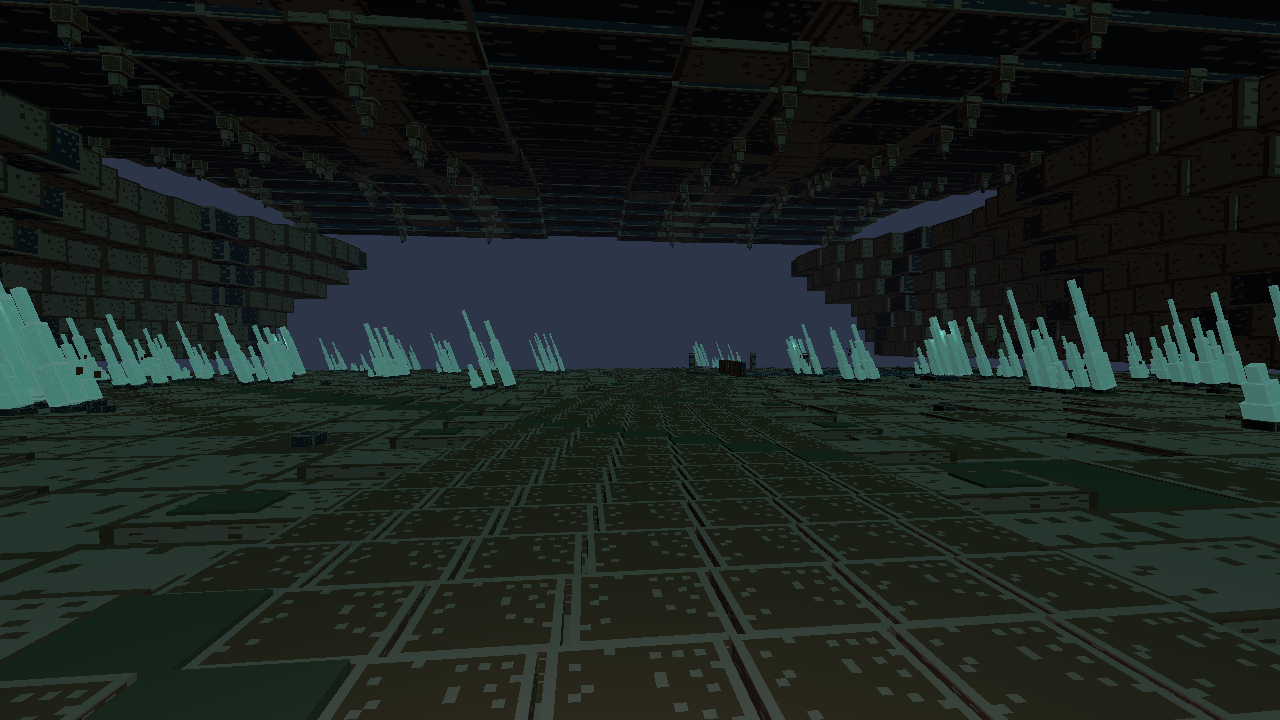
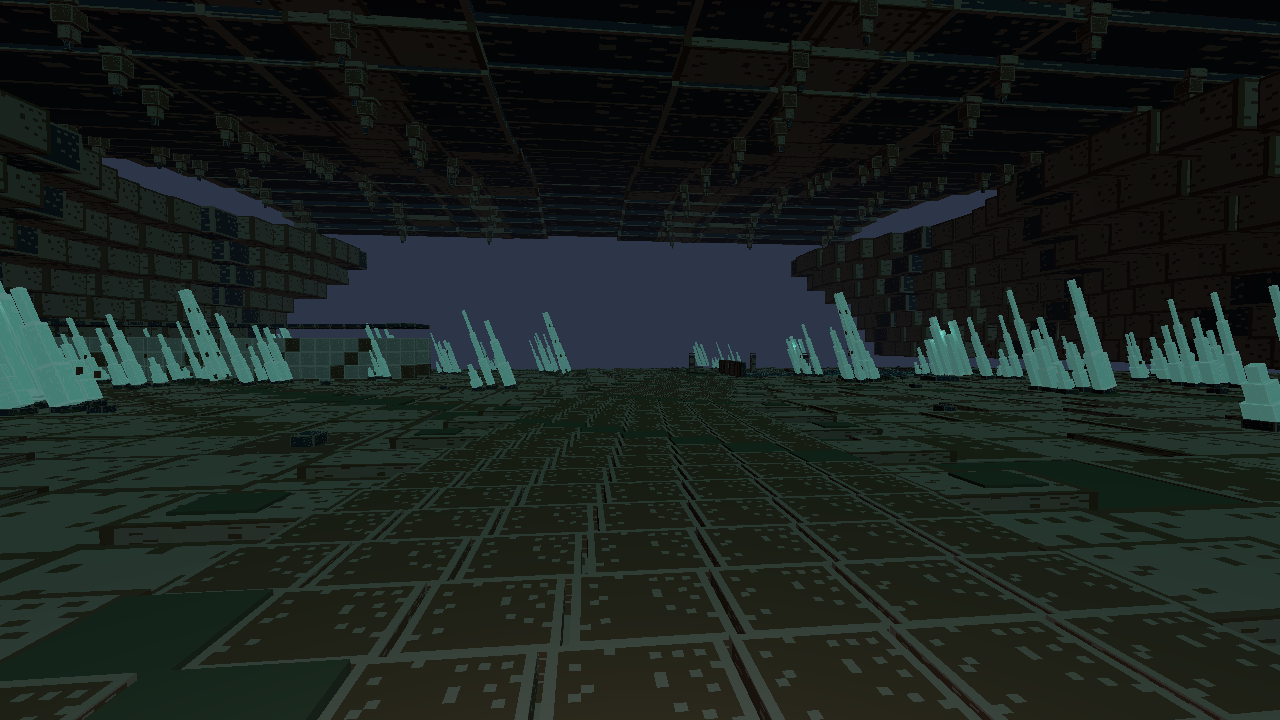
U-3: sculpt three ancient monoliths and silver moonstone spur

diff --git a/tools/voxel-tavern/town-blockout/underground-crystal-cavern.ts b/tools/voxel-tavern/town-blockout/underground-crystal-cavern.ts
@@ -17,7 +17,7 @@ import {
 export type CrystalCavernPoint = Readonly<{ east: number; north: number; height: number }>;
 export type CrystalCavernFrame = CrystalCavernPoint & Readonly<{ yaw: number; domainId: string }>;
 type Local = readonly [east: number, height: number, north: number];
-type Family = 'rock' | 'shadow' | 'slate' | 'timber' | 'rust' | 'moss' | 'crystal' | 'water';
+type Family = 'rock' | 'shadow' | 'slate' | 'timber' | 'rust' | 'moss' | 'crystal' | 'water' | 'moonstone';
 export type CrystalCavernBlock = Readonly<{
   name: string;
   family: Family;
@@ -367,6 +367,83 @@ function makeCavern() {
   }
 }
 makeCavern();
+function buildMonolithHallAndMoonstoneSpur() {
+  // U-3 R2: the visual centrepiece is exactly three ~8 m crystalline columns
+  // in a triangular arrangement. These are geological scenery, never new
+  // ore-vein IDs, crystal-mimic spawns or mining rewards. Keep the route clear.
+  const monoliths = [[-31,49],[26,46],[-2,67]] as const;
+  for (const [index,[east,north]] of monoliths.entries()) {
+    const base = crystalCavernTrailHeight(north);
+    for (let tier=0;tier<20;tier++) {
+      const rise=(tier+.5)*.40;
+      const shrink=1-.023*tier;
+      const lean=-Math.sin(CRYSTAL_CAVERN_CANT_RAD)*rise;
+      add('crystal','u3/hall/monolith-'+index+'/spine-'+tier,
+        east+lean,base+Math.cos(CRYSTAL_CAVERN_CANT_RAD)*rise+.24,north,
+        1.12*shrink,.41,1.03*shrink,false,CRYSTAL_CAVERN_CANT_RAD);
+      for (let rib=0;rib<4;rib++) {
+        const angle=rib*Math.PI/2;
+        add(tier%5===0?'slate':'crystal',
+          'u3/hall/monolith-'+index+'/facet-'+tier+'-'+rib,
+          east+lean+Math.cos(angle)*.57*shrink,
+          base+Math.cos(CRYSTAL_CAVERN_CANT_RAD)*rise+.24,
+          north+Math.sin(angle)*.51*shrink,
+          .20*shrink,.40,.21*shrink,false,CRYSTAL_CAVERN_CANT_RAD);
+      }
+    }
+    for(let root=0;root<8;root++) for(let level=0;level<5;level++) {
+      const a=root*Math.PI/4;
+      const r=1.18+level*.23;
+      add(level===4?'moss':level%3===0?'slate':'rock',
+        'u3/hall/monolith-'+index+'/root-'+root+'-'+level,
+        east+Math.cos(a)*r,base-.27+level*.075,
+        north+Math.sin(a)*r,.50,.24,.55);
+    }
+  }
+
+  // U-3 R2 visual-only moonstone branch: a furnished silver-grey side niche
+  // with a natural flat crystal face. This is NOT a reflective mirror shader,
+  // a host-certified playable corridor or a mining/reward registration.
+  for(let bay=0;bay<25;bay++){
+    const east=-17-bay*1.4;
+    const north=56+Math.sin(bay/5)*1.3;
+    const base=crystalCavernTrailHeight(north);
+    for(let lane=-2;lane<=2;lane++) {
+      add((bay+lane)%4===0?'moonstone':'slate',
+        'u3/moonstone-spur/floor-'+bay+'-'+lane,
+        east,base-.15,north+lane*.75,1.40,.24,.73);
+    }
+    for(const side of [-1,1]) for(let tier=0;tier<3;tier++) {
+      add((bay+tier)%5===0?'slate':'moonstone',
+        'u3/moonstone-spur/bank-'+bay+'-'+side+'-'+tier,
+        east,base+.68+tier*1.35,north+side*2.35,
+        1.37,1.33,.51);
+    }
+    add('shadow','u3/moonstone-spur/cap-'+bay,
+      east,base+5.28,north,1.40,.36,5.1);
+  }
+  // The wall can be photographed, but actual avatar reflections require a
+  // separately reviewed host shader/scene capture. Do not call this one a
+  // working mirror in release notes.
+  const mirrorEast=-53.4, mirrorNorth=56;
+  const mirrorBase=crystalCavernTrailHeight(mirrorNorth);
+  for(let row=0;row<9;row++) for(let col=0;col<10;col++) {
+    add((row+col)%7===0?'slate':'moonstone',
+      'u3/moonstone-spur/natural-mirror-'+row+'-'+col,
+      mirrorEast,mirrorBase+.42+row*.55,mirrorNorth+(col-4.5)*.54,
+      .32,.54,.53);
+  }
+  for(let jamb=0;jamb<2;jamb++) for(let segment=0;segment<9;segment++) {
+    add('rock','u3/moonstone-spur/mirror-jamb-'+jamb+'-'+segment,
+      mirrorEast+.05,mirrorBase+.42+segment*.57,
+      mirrorNorth+(jamb?3.0:-3.0),.58,.55,.62);
+  }
+  for(let segment=0;segment<10;segment++)
+    add('shadow','u3/moonstone-spur/mirror-crown-'+segment,
+      mirrorEast+.04,mirrorBase+5.56,
+      mirrorNorth+(segment-4.5)*.59,.56,.23,.55);
+}
+buildMonolithHallAndMoonstoneSpur();
 export const crystalCavernArchitecture = Object.freeze({
   pieces: Object.freeze(objects),
   numbers: Object.freeze({
@@ -382,10 +459,12 @@ export const crystalCavernArchitecture = Object.freeze({
 const colors: Readonly<Record<Family, number>> = {
   rock: 0x8a8378, shadow: 0x2c3648, slate: 0x5d4630, timber: 0xa98a56,
   rust: 0x8a4a34, moss: 0x44503c, crystal: 0x7fd4c8, water: 0x2c3648,
+  moonstone: 0xa7b4b6,
 };
 const accent: Readonly<Record<Family, number>> = {
   ...colors, rock: 0x5d4630, shadow: 0x8a8378, slate: 0x8a8378,
   timber: 0x5d4630, rust: 0x5d4630, crystal: 0xe8ecf0, water: 0x7fd4c8,
+  moonstone: 0xd1d9d7,
 };
 function texture(family: Family) {
   const bytes = new Uint8Array(16 * 16 * 4);

diff --git a/tests/town-blockout-underground-crystal-cavern.test.ts b/tests/town-blockout-underground-crystal-cavern.test.ts
@@ -66,7 +66,7 @@ test('U-3 R1 models the entire 180×120m layer, 97m path, vault, clusters, river
   assert.ok(pieces.filter(p => p.name.startsWith('u3/crystals/')).length > 400);
   const materials = new Set(pieces.map(p => p.family));
   assert.deepEqual([...materials].sort(),
-    ['crystal','moss','rock','rust','shadow','slate','water'].sort());
+    ['crystal','moonstone','moss','rock','rust','shadow','slate','water'].sort());
 });
 
 test('U-3 R2 all crystalline growth is tilted exactly +20° and grouped, 6 cold fixtures have physical crystals', () => {
@@ -95,9 +95,37 @@ test('U-3 R2/R5 complete faceted ceiling, side strata and both river banks witho
   assert.equal(family('u3/river/shore-cap-').length,48);
   assert.ok(teeth.every(p=>!p.solid), 'overhead geological ornament is not a fake route obstruction');
   assert.ok(family('u3/river/shore-').every(p=>!p.solid));
-  assert.equal(crystalCavernArchitecture.numbers.cuboids,8208);
+  assert.equal(crystalCavernArchitecture.numbers.cuboids,9046);
   assert.ok(teeth.filter(p=>p.name.includes('-tier-')).every(p=>p.center[1]-p.size[1]/2>=20.4),
     'ceiling teeth must not invade the 20m traversable envelope');
+});
+
+test('U-3 R2 hall has exactly three eight-metre faceted monoliths and a visual moonstone spur', () => {
+  const pieces=crystalCavernArchitecture.pieces;
+  const named=(prefix:string)=>pieces.filter(p=>p.name.startsWith(prefix));
+  assert.equal(named('u3/hall/monolith-').length,420);
+  assert.equal(named('u3/hall/monolith-').filter(p=>p.name.includes('/spine-')).length,60);
+  assert.equal(named('u3/hall/monolith-').filter(p=>p.name.includes('/facet-')).length,240);
+  assert.equal(named('u3/hall/monolith-').filter(p=>p.name.includes('/root-')).length,120);
+  for(let index=0;index<3;index++){
+    const spine=named('u3/hall/monolith-'+index+'/spine-');
+    assert.equal(spine.length,20);
+    assert.ok(Math.max(...spine.map(p=>p.center[1]))-Math.min(...spine.map(p=>p.center[1]))>6.9);
+    assert.ok(spine.every(p=>p.rotationZ===CRYSTAL_CAVERN_CANT_RAD));
+  }
+  assert.equal(named('u3/moonstone-spur/floor-').length,125);
+  assert.equal(named('u3/moonstone-spur/bank-').length,150);
+  assert.equal(named('u3/moonstone-spur/cap-').length,25);
+  assert.equal(named('u3/moonstone-spur/natural-mirror-').length,90);
+  assert.equal(named('u3/moonstone-spur/mirror-jamb-').length,18);
+  assert.equal(named('u3/moonstone-spur/mirror-crown-').length,10);
+  assert.equal(crystalCavernArchitecture.numbers.cuboids,9046);
+  assert.equal(named('u3/moonstone-spur/').filter(p=>p.solid).length,0,
+    'the visual spur cannot claim host-certified colliders or playable passage');
+  assert.ok(named('u3/moonstone-spur/').every(p=>p.family!=='water'),
+    'do not disguise the photo wall as water/real reflections');
+  assert.equal(crystalCavernArchitecture.numbers.clusters,62);
+  assert.equal(crystalCavernArchitecture.numbers.riverCells,289);
 });
 
 test('U-3 tapered crystals have real continuous segment tips under the exact rotated +20° spine', () => {
@@ -180,7 +208,7 @@ test('U-3 R4/R5 eight-or-fewer instanced nearest pixel palettes and six attached
   if (scene.kind !== 'ready') assert.fail();
   assert.equal(f.parent.children.length, 1);
   assert.equal(scene.group.position.y, -140);
-  assert.equal(scene.meshes.length, 7);
+  assert.equal(scene.meshes.length, 8);
   assert.equal(scene.lights.length, 6);
   assert.equal(scene.lights.filter(l=>l.visible).length, 3);
   assert.equal(scene.colliders.length, crystalCavernArchitecture.numbers.structuralColliders);

diff --git a/tools/fixtures/underground-crystal-cavern-review.ts b/tools/fixtures/underground-crystal-cavern-review.ts
@@ -40,6 +40,14 @@ const views = {
     eye: [24.5, crystalCavernTrailHeight(76) + 1.67, -76] as const,
     target: [49, crystalCavernTrailHeight(87) + 1.6, -87] as const,
   },
+  monolith: {
+    eye: [-17, crystalCavernTrailHeight(43) + 1.67, -42] as const,
+    target: [-31, crystalCavernTrailHeight(49) + 4.2, -49] as const,
+  },
+  moonstone: {
+    eye: [-38, crystalCavernTrailHeight(56) + 1.67, -56] as const,
+    target: [-53.4, crystalCavernTrailHeight(56) + 2.6, -56] as const,
+  },
 } as const;
 type ViewName = keyof typeof views;
 let current: ViewName = 'entrance';
@@ -68,8 +76,8 @@ function draw() {
 }
 draw();
 const keyboard = (event: KeyboardEvent) => {
-  const keys: readonly ViewName[] = ['entrance', 'grove', 'overlook', 'quay'];
-  const idx = ['1','2','3','4'].indexOf(event.key);
+  const keys: readonly ViewName[] = ['entrance', 'grove', 'overlook', 'quay', 'monolith', 'moonstone'];
+  const idx = ['1','2','3','4','5','6'].indexOf(event.key);
   if (idx >= 0) setView(keys[idx]);
 };
 window.addEventListener('keydown', keyboard);

diff --git a/docs/交流区/队列-窗C.md b/docs/交流区/队列-窗C.md
@@ -12,13 +12,13 @@
 
 **2026-11-21 晚间增量续报（仍不关闭任务）：** U-10 实键 W 连续扫掠、开放屋进门/封闭屋挡门的真实 Chrome 独立预览验收已通过，见《窗C-U10-键盘实走复验-2026-11-21》；U-11 R5 新补五组实体石龛宫灯 720 块，独立模型累计 10,581、未授权封库默认 7,566，单测 4/4、六机位 D 壳快照浏览器审图通过，根 build 通过，见《窗C-U11-R5石龛宫灯续建-2026-11-21》。U-11 R3 又对 D 固定壳体 14 点/13 段路线做 .27m 胶囊连续 0.11m 采样，2/2 PASS，见《窗C-U11-R3固定壳路线核验-2026-11-21》。两件都尚未正式接入默认地下宿主，多人实走/美术双图/完整四齐缺口不变，**保持在建**。全部产物在指定 D 盘工作树并按分支分件推送。
 
-**U-3 2026-11-21 增补：** 水晶洞穹顶悬岩/侧壁岩层/34m 河岸新增 1,206 件，模型 7,002→8,208；专项 8/8、四机位 Chrome 渲染无错误、TypeScript 绿。仍未挂载 −140m 官方域，保持在建，见 [R2/R5 本轮回执](GPT/窗C-U3水晶洞穹顶与河岸实体回补-2026-11-21.md)。此前 U3 集成审合因 D 主峰工坊 12 处 TS 错阻断，后续必须在最新主干复检，不因旧审核树红灯直接认定最新主干。
+**U-3 2026-11-21 增补：** 水晶洞穹顶悬岩/侧壁岩层/34m 河岸新增 1,206 件，模型 7,002→8,208；续建 3 根主厅巨晶柱和银灰月光石侧洞又新增 838 件，总量 **9,046 件**，8 个实例色板。最新专项 **9/9**、Chrome 六机位 6/6 无页面错误、根 check/build 绿。仍未挂载 −140m 官方域，保持在建，见 [地质回补](GPT/窗C-U3水晶洞穹顶与河岸实体回补-2026-11-21.md)和 [巨晶/侧洞回执](GPT/窗C-U3晶洞三晶柱与银灰月光石脉-2026-11-21.md)。此前 U3 集成审合因 D 主峰工坊 12 处 TS 错阻断，后续必须在最新主干复检，不因旧审核树红灯直接认定最新主干。
 
 | 编号 | 任务与上位令 | 状态 |
 | --- | --- | --- |
 | [U-1](任务/U-1.md) | B-01 正式井位与入梦 | 在建。三段权威、ZA-31 绞盘句柄 `5e2b7d0e` 和双向吊笼交接 `df7b3117`、演出 `66ec347d`、正式黑帧控制器 `985e7c05` 与实际井口受理桥 `07e512e0` 已入干（17/17、15/15、12/12，受理桥同权威组 22/22）；正式长按 E、井线与矿域受理待接 |
 | [U-2](任务/U-2.md) | 矿一营地与旧镐 | 在建。旧镐权威 `ade95410`、营地遗迹与布局 `f7188937`、营地互动与献灯 `e87a3766` 已入干（20/20），新增已认证矿洞域下的可选真交互组装 `4f5dc74d`（6/6）、待默认入口实接与 G-11 库存受理 |
-| [U-3](任务/U-3.md) | 水晶洞 180×120m 独立环境主体（62 晶簇、暗河古石码头、同偏角晶体、入口/出口真实脚点） | **已接领·窗 C，仍在建**。三轮大批建模 7,002 块，四视角 Chrome 审图返工、U3 7/7、地下 319/319；`lane-c` `e9e14ab7`/`8d864c6e`/`7f92b38c`/`3a59a308` 已推。最新 integration `064f0104` 独立复验自身窗 D 主峰工坊测试 12 条 TS 红，导致 C 审合不得过，详[跨窗提单](提单/窗C致窗D-主峰工坊测试类型回归阻断U3并线-2026-11-21.md)。**正式 −140m 层域、真实 E、默认玩家未验，禁止报完工**。 |
+| [U-3](任务/U-3.md) | 水晶洞 180×120m 独立环境主体（62 晶簇、暗河古石码头、同偏角晶体、入口/出口真实脚点） | **已接领·窗 C，仍在建**。多轮实物增补至 9,046 块，六机位 Chrome 审图返工、U3 9/9（此前旧基线地下 319/319）；`lane-c` `e9e14ab7`/`8d864c6e`/`7f92b38c`/`3a59a308` 已推。最新 integration `064f0104` 独立复验自身窗 D 主峰工坊测试 12 条 TS 红，导致 C 审合不得过，详[跨窗提单](提单/窗C致窗D-主峰工坊测试类型回归阻断U3并线-2026-11-21.md)。**正式 −140m 层域、真实 E、默认玩家未验，禁止报完工**。 |
 | [U-10](任务/U-10.md) | 勇士城分支线石屋排房、无字市场拱廊、90m 可走城墙（YS4/YS5） | **在建，七轮大批建模与风格返工已自有分支先推、总装主干审合。** R1/R2 原 6,107 件批量主体 `lane-c` `4f339438`，R3–R7 实体连通、16px 像素、4 机位 Chrome 首轮 `5ad480d5`，审图发现空白后补 740 块屋檐/拱券/石铺 `e2a1cefe`，现总新增 **6,847 建筑块**、U10 同帧 **8,921 块**、8–9 draw calls、约 107k triangles。D 盘隔离审合全地下 **303/303 PASS**、根 check/build 绿，集成最终 **`057d2f94`**。本机唯一根 `D:\computer learning\game_exe\kuanian`、窗 C 工作树 `.worktrees\window-c`。**未挂载真实 −165m 地域/180m 主街/玩家实走，四齐未过，仍在建**；[七轮大批审图回执](GPT/窗C-U10七轮建模大批交付-2026-11-21.md)、[原四轮存档](GPT/窗C-U10四轮石屋拱廊城墙回执-2026-11-21.md) |
 | [U-11 装饰补模](任务/U-11-窗C地宫装饰补模.md) | 窗 D 地宫壳体的非侵入式中式砖石/柱廊/王座/宝库陈设补模（R1–R2 实体先行） | **在建 · 窗 C**。本轮 D 盘新模型 9,861 块、8 组实例材质、专项 3/3、check/build PASS；R3 缺整宫实走、R4 独立六机位 Chrome 已过但仍缺参考图库对版与合体审图、R5 待精修、R6 缺宿主授权、R7 缺四齐合入，宝库仍封闭。见 [分件任务](任务/U-11-窗C地宫装饰补模.md) 和 [跨窗提单](提单/窗C致窗D-U11地宫补件对接-2026-11-21.md)。 |
 | [U-5](任务/U-5.md) | 地宫守库傀儡与地下四锚 | 在建。三阶段守库权威与生肖安全锚 `a9eb1ff6` 已入干（10/10），正式地宫、战斗宿主和绝对锚待接 |

diff --git a/docs/交流区/GPT/窗C-U3晶洞三晶柱与银灰月光石脉-2026-11-21.md b/docs/交流区/GPT/窗C-U3晶洞三晶柱与银灰月光石脉-2026-11-21.md
@@ -1,0 +1,19 @@
+# 窗 C · U-3 水晶洞 R2 主厅三晶柱与月光石侧洞补建（2026-11-21）
+
+**状态：在建。独立预制模型已通过新增建模/六机位 WebGL 验收；正式 −140m 地下域、支线碰撞与多人交互尚未挂载。**
+
+## 真实模型体量和设计边界
+
+- 唯一工程根 `D:\computer learning\game_exe\kuanian`，本次实际写入 `.worktrees\window-c` 的 `lane-c`；未改根工作树或其他窗 D/A/B 的文件。
+- 依照 Muse 《任务书-水晶洞细化》§1 的大厅三根约 8m 巨晶柱和月光石脉银灰色支线意象，在既有 8,208 块地貌上新增 **838 块实景构件，总计 9,046 块**。
+- **大厅标志晶柱 420 件**：三个不同地脚、各有 20 层微倾晶体中心段 + 80 块刻面 + 40 块分环地质基座，共 140×3；品字近景约 8m 高，仍使用同向 20° 晶体倾角。三个选点避让原 97m 主路与原有观景脚点；**不计入官方 62 处野生晶簇、不注册新矿点、拾取物、敌人或碰撞障碍**。
+- **月光石洞 418 件**：25×(5 格层地 + 6 格银灰侧壁 + 1 块顶棚) = 300，洞末平整石晶影壁 90 件 + 侧框 18 + 檐冠 10，新增第八组 `moonstone` 哑光银灰 16px 最近邻色板。晶壁是**自然平整视觉面，不是能够真实倒映玩家的反射镜**；该侧洞仍是美术预制，不冒充已实现挖矿支线或正式可进入的权威碰撞区域。
+- 保留 62 处原晶簇、289 格暗河、原 U-3 晶怪/晶蝠与 U-8/U-15 权限、六盏宿主预算冷灯及 16px 禁 mipmap；未新增 PointLight。
+
+## 可重跑验收
+- `node --import tsx --test tests/town-blockout-underground-crystal-cavern.test.ts` **9/9 PASS**：精确件数、三根晶柱高度与同向倾角、支线四面实体、非权威边界、原主路 27cm 胶囊通行和既有晶体分段连续性。
+- `node tools/run.mjs check` 与 `node tools/run.mjs build` 通过。已知 Vite 大 chunk 警告存在，不影响本次构建退出码；不等同于手机 FPS 通过。
+- `node tools/verify-underground-crystal-cavern.mjs` 独立 Chrome **6/6 机位通过**（入口、晶簇林、观景台、码头、巨晶柱、银灰侧洞）：1280×720、7–8 draws、105,084–108,552 triangles、4 盏可见冷灯、零浏览器页面异常；审图证据在 `docs/交流区/GPT/窗C-U3晶洞建模审图-2026-11-21/` 的 `1-entrance.png` 至 `6-moonstone.png` 与 `review-stats.json`。
+- **七轮 / 四齐**：R2/R4/R5 独立补模与网页审图增量完成，R3 仅本地主路净空可验证；正式月光石支线自上层接入、三晶柱宿主光影、真正的模糊队伍反射、R6 交互和 R7 真玩家/手机/多人审合仍未过。形/饰/互/文均不能标全部通过。不得宣称默认镇入口已能进入本场景或已经部署。
+
+**本轮已读 Muse 新文件：** 检查集成 `3b3c7b0b..61f92e9b` 的 Muse/任务/提单差分无新增，重读《任务书-水晶洞细化》与《地下层补充-陨石坑入口与洞内风格》；其他历史未归档待办仍需按队列逐项处理。

diff --git a/docs/交流区/任务/U-3.md b/docs/交流区/任务/U-3.md
@@ -17,3 +17,10 @@
 - 定向 **8/8 PASS**（新增精确件数/最低悬岩高度/无跨域权威），根 TypeScript 通过；四机位 Chrome 6–7 draws、约 95k–98k triangles、页面错误 0。见 [新增回执与原图](../GPT/窗C-U3水晶洞穹顶与河岸实体回补-2026-11-21.md)。
 - **状态：在建**。本批是能交付的 R2/R5 实体增量，不是完成整个地下 −140m 层、U-15 接线或正式玩家落脚。此前集成 TypeScript 12 红由 D 测试与 API 不一致引起，C 不绕过红灯强合；任何主干合并需以**最新集成原树**重新复算。
 - **本轮已读 Muse 新文件：** 已复核 U3 当前工包、七轮/四齐与跨窗阻断；其余新文件继续逐份读。
+
+## 2026-11-21 R2 新增三根大厅巨晶柱与月光石支线银灰美术
+
+- 在前批 8,208 构件之上新增 **838 块**：三根约 8m 的层叠刻面主厅晶柱 **420 块**、含 25 段地面/侧壁/顶棚及 90 格平整银灰石晶面的月光石侧洞 **418 块**。U3 总预制件 **9,046 块**，七种原有石晶色系与新 `moonstone` 银灰色共 **8 个 InstancedMesh 材质族**。
+- 新单测 **9/9 PASS**，正式根 check/build 通过；六机位 Chrome 6/6 成功、7–8 draws、约 105k–109k 三角形、0 页面错误；证据新增 `5-monolith.png` 和 `6-moonstone.png`，详见 [独立建模与审核回执](../GPT/窗C-U3晶洞三晶柱与银灰月光石脉-2026-11-21.md)。
+- **仍在建**：晶壁尚不实现真实玩家倒影，月光石视觉支线未注册可走碰撞或挖矿点；U-15 实际洞域与 U-3 战斗/采集权威仍待生产挂载。不能借助独立截图误报 R6/R7 或四齐已过。
+- **本轮已读 Muse 新文件：** 已核最新集成两批次对 Muse 目录无增量，重读水晶洞细化及洞内风格稿；保持交接缺口。
